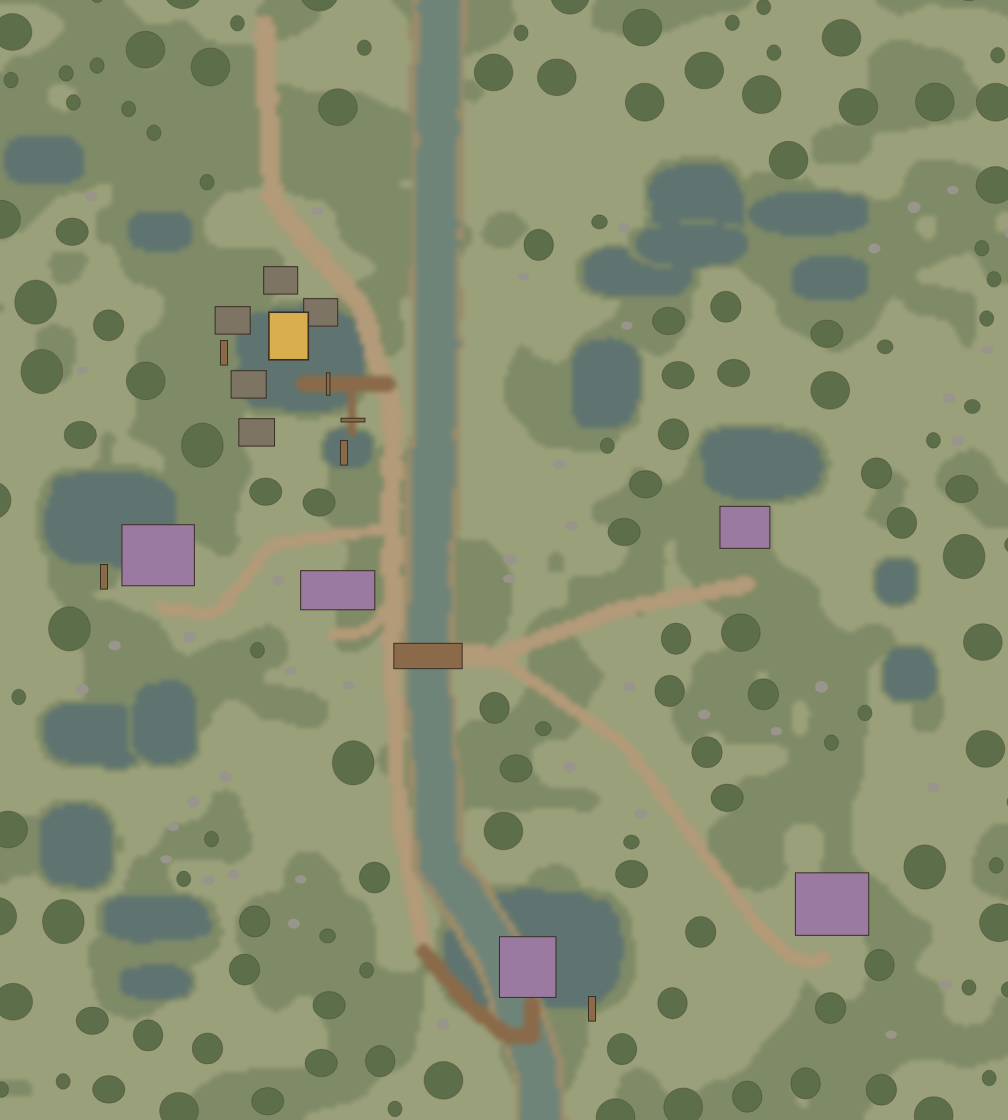
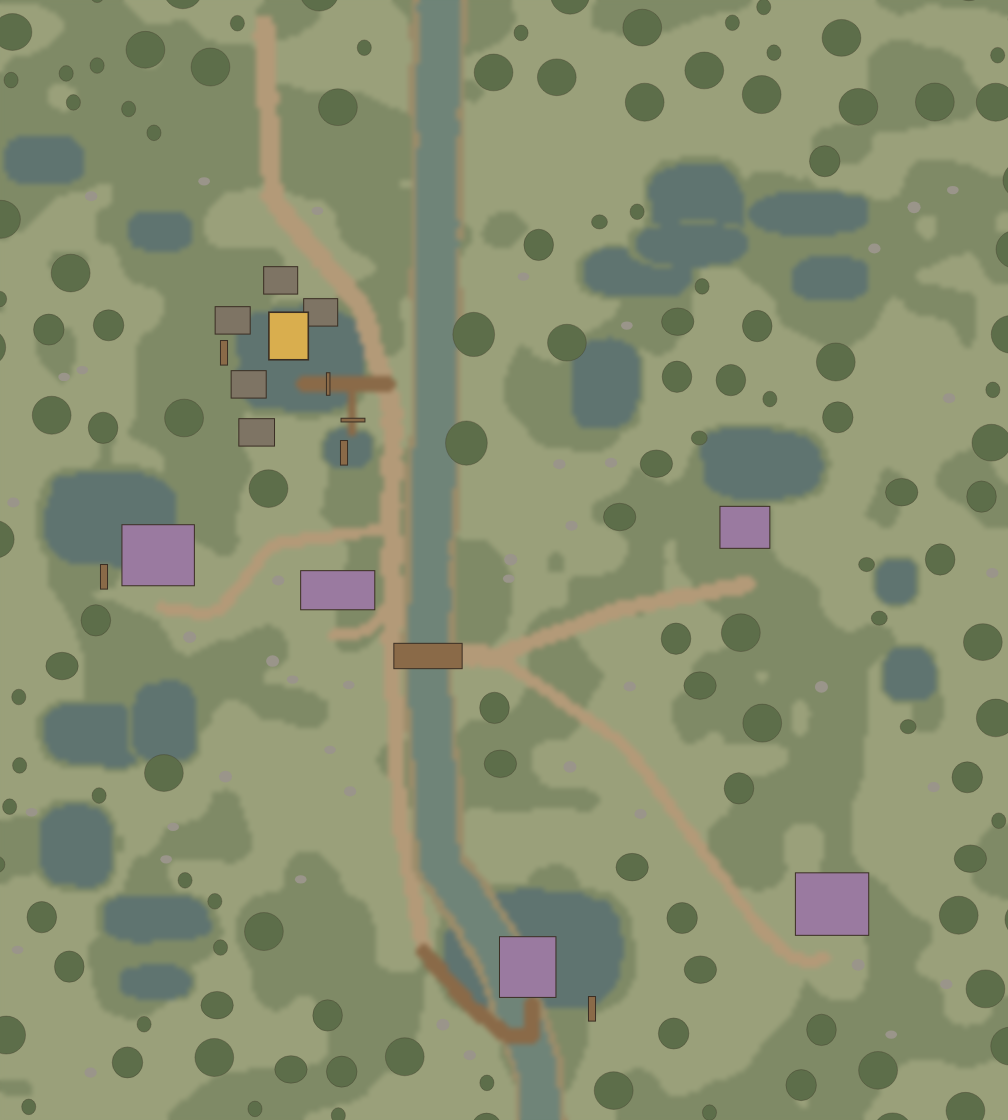
Foliage by ground: willows at the Fens' water, no pines on scree or snow
Level design rules §3.6 (biome foliage), measured on each land's seed:
- Fens: willows and dead trees only at a pool's or river's edge (a
  waterEdge pass on its own stream), never out on the marsh; tree cover
  within 8 tiles 21.6 % (4 willows, 14 dead), in the rule's 15-25 % band.
- Reach: scree takes rock_B where a pine would have stood (cover 9.5 %).
- Heights: a pine on snow or scree becomes rock_C, or dead_1 one in
  five; undergrowth only on grass (cover 15.8 %). Vale unchanged, 26.4 %.

New tests: test/biomes.test.mjs (what grows on which ground, per land)
and test/layout.test.mjs (bridge ends clear on all four lands; the
square open 10 tiles round the well, Saltmere exempt). The doc gains the
spawn-point rules (§3.6b) and marks §7's built items. Fens maps redrawn.

npm run check: 574 pass, SMOKE_OK, RENDER_SMOKE_OK.

Claude-Session: https://claude.ai/code/session_015iJE9saRx1hCYJHRMUYeGn

diff --git a/src/sim/outdoor.js b/src/sim/outdoor.js
@@ -224,6 +224,41 @@ const pick = (rng, a) => a[(rng() * a.length) | 0];
 
 // scatter trees / rocks in a region with a density mask; never on roads, water or buildings,
 // and never overlapping one another (trees keep a tile of verge from roads; mountains may crowd)
+// The Fens' water's edge (level-design-rules.md §3.6: "willows and the dead at the edges of the water"): round every mere
+// and along the canal's banks, a willow leaning over the water now and then, a dead tree standing in its shallows. A
+// crown may hang over the water (the scatter's trees can't: their whole footprint must be on land), never over a road,
+// a building or a way in. Its own stream: nothing else on the map moves for it.
+function waterEdge(o, keepOut) {
+  const rng = mulberry32(streamSeed(o.seed, 4434)), roadish = new Set([G.DIRT, G.COBBLE, G.DECK]);
+  const fitsOver = (id, x, y) => { const [x0, y0, x1, y1] = footRect(id, x, y);
+    for (let ty = Math.floor(y0); ty <= Math.floor(y1); ty++) for (let tx = Math.floor(x0); tx <= Math.floor(x1); tx++) {
+      const i = gi(o, tx, ty); if (i < 0 || o.occ[i] === 1) return false;
+      if (o.occ[i] === 2 && roadish.has(groundAt(o, tx + 0.5, ty + 0.5).g)) return false;
+    }
+    const t = groundAt(o, x, y).g; return t === G.GRASS || t === G.BANK; };   // (the trunk on the bank or the grass)
+  const plant = (x, y) => {
+    if (x < 4 || y < 4 || x > o.W - 4 || y > o.H - 4 || keepOut.some(([kx, ky]) => hypot(x - kx, y - ky) < 20)) return;
+    const id = rng() < 0.78 ? pick(rng, ['willow_1', 'willow_2']) : pick(rng, ['dead_1', 'dead_2']);
+    if (fitsOver(id, x, y)) put(o, id, x, y, 'round', 0.35);
+  };
+  for (const q of o.pools) for (let a = rng() * 0.6; a < Math.PI * 2; a += 0.42 + rng() * 0.3) {
+    if (rng() > 0.45) continue;
+    const k = 1 + (2.5 + rng() * 2) / Math.max(q.rx, q.ry); plant(q.cx + cos(a) * q.rx * k, q.cy + sin(a) * q.ry * k);
+  }
+  for (const r of o.rivers) for (let i = 1; i < r.pts.length; i++) {
+    const [ax, ay] = r.pts[i - 1], [bx, by] = r.pts[i], L = hypot(bx - ax, by - ay), nx = -(by - ay) / L, ny = (bx - ax) / L;
+    for (let t = rng() * 10; t < L; t += 10 + rng() * 8) for (const sd of [-1, 1]) if (rng() < 0.35) {
+      const d = r.w / 2 + 3 + rng() * 2; plant(ax + (bx - ax) * t / L + nx * sd * d, ay + (by - ay) * t / L + ny * sd * d);
+    }
+  }
+}
+/** is there open water (a pool, the canal, a river or its bank) within r tiles of (x, y)? (the Fens' edges: §3.6) */
+function waterNear(o, x, y, r) {
+  for (const [dx, dy] of [[0, 0], [r, 0], [-r, 0], [0, r], [0, -r], [r * 0.7, r * 0.7], [-r * 0.7, r * 0.7], [r * 0.7, -r * 0.7], [-r * 0.7, -r * 0.7]]) {
+    const g = groundAt(o, x + dx, y + dy).g; if (g === G.POOL || g === G.WATER || g === G.BANK) return true;
+  }
+  return false;
+}
 function scatter(o, rng, x0, y0, x1, y1, step, fn) {
   for (let y = y0; y < y1; y += step) for (let x = x0; x < x1; x += step) {
     const jx = x + (rng() - 0.5) * step * 0.9, jy = y + (rng() - 0.5) * step * 0.9, id = fn(jx, jy);
@@ -510,9 +545,14 @@ function buildFens(seed) {
     if (keepOut.some(([kx, ky]) => hypot(x - kx, y - ky) < 18) || inFrontOf(keepOut, x, y, 26, 14)) return null;
     const n = fbm(x * 0.03, y * 0.03, o.seed + 41), out = Math.max(-x, x - 240, -y, y - 240);
     if (out > 0) return rng() < 0.8 ? pick(rng, ['carr_1', 'carr_2', 'dead_1', 'willow_1']) : null;
-    return n > 0.58 ? pick(rng, ['alder_1', 'alder_2', 'alder_3', 'carr_1', 'willow_2']) : rng() < 0.05 ? pick(rng, ['dead_1', 'dead_2']) : null;
+    // (level-design-rules.md §3.6, the foliage pass: the willows and the dead at the water's edge and off the marsh; a
+    // thicket's alders and carr on the raised ground. The same draws as before, only the kind they come out as)
+    const g = groundAt(o, x, y).g, edge = g !== G.MARSH && waterNear(o, x, y, 8);   // (8: a willow's crown is 7 across, and stands back from the water it leans over)
+    const id = n > 0.61 ? pick(rng, edge ? ['willow_1', 'willow_2', 'alder_1', 'willow_2', 'dead_1'] : ['alder_1', 'alder_2', 'alder_3', 'carr_1', 'carr_2']) : rng() < (edge ? 0.12 : 0.05) ? pick(rng, ['dead_1', 'dead_2']) : null;
+    return id && /willow|dead/.test(id) && !edge ? null : id;
   });
   forestRing(o, rng, 6, FENS_CLUSTER, FENS_SINGLE);
+  waterEdge(o, keepOut);
   const ways = [mound, lockhall, pools, abbey, reedholm].map((p) => door(p, 8));
   undergrowth(o, -10, -10, 250, 250, 4, (x, y) => {
     if (keepOut.some(([kx, ky]) => hypot(x - kx, y - ky) < 12) || ways.some(([kx, ky]) => hypot(x - kx, y - ky) < 8)) return -1;
@@ -932,7 +972,8 @@ function buildReach(seed) {
     if (!clear(x, y, 14)) return null;
     if (x > 140 && x < 220 && y > 30 && y < 104 && rng() < 0.35) return pick(rng, HEAP);           // the works' heaps
     const n = fbm(x * 0.04, y * 0.04, o.seed + 61), hill = y < 70 && x < 140;
-    if (n > 0.6 || (hill && rng() < 0.2)) return rng() < 0.6 ? pick(rng, RED) : hill ? pick(rng, ['pine_2', 'pine_4', 'dead_2']) : pick(rng, ['dead_1', 'dead_2']);
+    if (n > 0.6 || (hill && rng() < 0.2)) { const id = rng() < 0.6 ? pick(rng, RED) : hill ? pick(rng, ['pine_2', 'pine_4', 'dead_2']) : pick(rng, ['dead_1', 'dead_2']);
+      return /pine/.test(id) && groundAt(o, x, y).g === G.SCREE ? 'rock_B' : id; }   // (§3.6: the pines on the hills' feet, none on scree: its red rock there)
     return rng() < 0.03 ? pick(rng, RED) : null;
   });
   forestRing(o, rng, 6, ['rock_E', 'rock_C', 'dead_1', 'rock_D'], ['dead_1', 'dead_2', 'rock_A', 'rock_B']);
@@ -1031,11 +1072,15 @@ function buildHeights(seed) {
     if (out > 0) return rng() < 0.7 ? pick(rng, PINES) : null;
     if (!clear(x, y, 14)) return null;
     const low = y > 140 && (x < 110 || x > 180), n = fbm(x * 0.035, y * 0.035, o.seed + 65);
-    if (low && n > 0.42) return rng() < 0.8 ? pick(rng, PINES) : 'dead_1';
-    return n > 0.62 ? (rng() < 0.5 ? pick(rng, PINES) : pick(rng, ['rock_A', 'rock_C', 'rock_D', 'rock_E'])) : rng() < 0.03 ? pick(rng, ['rock_C', 'rock_D', 'rock_B', 'dead_2']) : null;
+    const id = low && n > 0.42 ? (rng() < 0.8 ? pick(rng, PINES) : 'dead_1')
+      : n > 0.62 ? (rng() < 0.5 ? pick(rng, PINES) : pick(rng, ['rock_A', 'rock_C', 'rock_D', 'rock_E'])) : rng() < 0.03 ? pick(rng, ['rock_C', 'rock_D', 'rock_B', 'dead_2']) : null;
+    // (§3.6: living pines only below the snow line; on the snow and the scree, rock and the odd dead pine)
+    if (id && /pine/.test(id)) { const g = groundAt(o, x, y).g; if (g === G.SNOW || g === G.SCREE) return (Math.floor(x) + Math.floor(y)) % 5 ? 'rock_C' : 'dead_1'; }
+    return id;
   });
   forestRing(o, rng, 6, PINES, [...PINES, 'dead_1']);
-  undergrowth(o, -10, -10, 270, 270, 5, (x, y) => (keepOut.some(([kx, ky]) => hypot(x - kx, y - ky) < 12) ? -1 : fbm(x * 0.07, y * 0.07, o.seed + 67) > 0.64 ? 0.35 : 0.04),
+  undergrowth(o, -10, -10, 270, 270, 5, (x, y) => { const g = groundAt(o, x, y).g;
+    return keepOut.some(([kx, ky]) => hypot(x - kx, y - ky) < 12) || g === G.SNOW || g === G.SCREE || g === G.MARSH ? -1 : fbm(x * 0.07, y * 0.07, o.seed + 67) > 0.64 ? 0.35 : 0.04; },   // (§3.6: nothing green on snow, scree or marsh)
     { low: ['ug_grass_1', 'ug_grass_2', 'ug_fern'], solid: ['rock_A', 'rock_B'], foot: ['ug_grass_2', 'ug_fern'] });
 
   o.exits.push({ x0: gate[0] - 8, y0: gate[1] - 4, x1: gate[0] - 1, y1: gate[1] + 4, to: 'town', arrive: 'overland' });

diff --git a/docs/level-design-rules.md b/docs/level-design-rules.md
@@ -62,7 +62,7 @@ everywhere, so the menu never moves.
 | **Services stand 8+ tiles apart**, every door inside the square's frame (\|Δ(x−y)\| < 22, Δ(x+y) −93…50 of the focus) | *test* town.test.mjs |
 | **The plaques hang at set heights** (temple 23.5, tavern 15.1, shop 13.4, smith 11.1, inn 18.7 tiles), not at the roofs, within ±17 of the centre; the drawn plaques match within 1 px and clear the buttons | *test* town.test.mjs, browser §15d2 |
 | **The walls are closed, the gate the only way out.** The curtain leaves ±7 tiles at the gate, the gate itself ±3 walkable; walls in 20-tile runs | *test* town.test.mjs |
-| **The square stays open 10 tiles round the well** (no house, prop or tree) | *prose* (to test, §7) |
+| **The square stays open 10 tiles round the well**: no house or tree (its table, its bucket and its people may stand there; a waystation's deck square, with no well, is exempt) | *test*: layout.test.mjs |
 | **Tall at the back, low at the front.** Houses fill the north and west quarters; nothing taller than one storey stands between the square and the camera; a home never stands south of what it opens onto | *prose*; the visibility check catches the result (§1.1) |
 | **Every door can be walked to** from where you wake (a flood fill); the town set stays off the roads (no footprint within a road's half-width) and 2+ tiles off the straight walk from each arrival to each door | *test* town.test.mjs (seed 1: more seeds, §7) |
 | **Doorstep props** (a bench, a barrel, a cart) go only on the +x/+y faces and never inside the hub; the back quarters' trees stand up-screen of the square | *code* outdoor.js |
@@ -92,9 +92,11 @@ everywhere, so the menu never moves.
   - the bridge's ramps (±9.2 tiles) on land;
   - no road in the river except at a bridge;
   - the mill's wheel within a tile of the water.
-- **Must, new: a bridge's ends stay clear.** Nothing solid within 4 tiles of either ramp's foot; no undergrowth on the
-  deck or within 2 tiles of it. *prose*, to test (§7).
-- **Should, new: the banks are planted for the biome** (§3.6). Reeds and willows at the Fens' water's edge; in the
+- **Must, new: a bridge's ends stay clear.** Past either end of its deck, 3 tiles across and 2 deep stay walkable
+  (*test*: layout.test.mjs, every bridge on all four lands). (Written first as "nothing solid within 4 tiles of the
+  ramp's foot": the test holds what a walk needs, the code's.)
+- **Should, new: the banks are planted for the biome** (§3.6). Reeds and willows at the Fens' water's edge (*test*:
+  biomes.test.mjs); in the
   Vale, the undergrowth thickens along the banks (it does: 0.55 density within 2.5 tiles of water). Trees stand 2+
   tiles back from open water except the biome's water trees.
 
@@ -162,10 +164,13 @@ on. What the code does today is set against each profile below; the "to change" 
   - Reeds in ribbons along every water edge.
   - The map's edge is a ring of carr.
   - Open water and marsh stay open: the Fens read as wide and wet, not wooded.
-- **Densities:** trees cover 10–20 % (less than the Vale); reeds on most of the water's edge.
+- **Densities:** cover (the share of the map within 8 tiles of a tree, as the Vale's) 15–25 %, less than the Vale's
+  (*test*: biomes.test.mjs); reeds on most of the water's edge.
 - **Never:** birch, autumn trees, mixed groves (the fens critic pass 2: they read round and cheerful here).
-- **Today:** species right. Trees stand on marsh ground as well as grass (167 on marsh). **To change:** keep the trees
-  but the willows and the dead off marsh, and run the reeds along the water's edges, which aren't placed by edge today.
+- **Today** (the foliage pass, 2026-11-11): alders and carr on the raised ground and the marsh; willows and the dead only
+  at the water's edge, never on the marsh (`outdoor.js` `waterEdge`: round every mere and along the canal, a crown may
+  lean over the water, never a road); cover 21.6 % (the Vale 26.4 %). The reeds along the edges are Luminati's own: it
+  grows them on every land tile beside water (*test*: biomes.test.mjs).
 
 **The Cinder Reach: cinder badlands.**
 - **Species:** red rock outcrops and their rubble, slag heaps round the works, dead trees, a few pines on the hills'
@@ -178,8 +183,8 @@ on. What the code does today is set against each profile below; the "to change" 
   - Most of the ground is bare.
 - **Densities:** trees under 3 % cover, rocks 5–10 %, dry grass in a few patches.
 - **Never:** flowers, ferns, clover, mushrooms, leafy trees.
-- **Today:** as above (dry grass and stones). Trees stand on scree (74 pieces). **To change:** pines only on the hills'
-  feet, none on scree.
+- **Today** (2026-11-11): no pine on scree (its red rock stands there instead); dead trees and rock; cover 9.5 %
+  (*test*: biomes.test.mjs: no pine on scree, no leafy growth, cover 12 % at most).
 
 **The Pale Heights: alpine.**
 - **Species:** pines in stands, dead pines at the treeline, scree fans, boulders. Ground: grasses and fern below the
@@ -191,8 +196,8 @@ on. What the code does today is set against each profile below; the "to change" 
   - The map's edge is pines.
 - **Densities:** pines 15–25 % cover below the treeline, none above; no undergrowth on snow or scree.
 - **Never:** green undergrowth on snow; marsh plants; leafy trees.
-- **Today:** pines stand on snow (177) and undergrowth grows on snow (29), on scree and on marsh (3). **To change:**
-  no undergrowth on snow, scree or marsh; living pines only below the snow line; dead pines and rock above it.
+- **Today** (2026-11-11): living pines only below the snow line; on snow and scree, rock and one dead pine in five; no
+  undergrowth on snow, scree or marsh (*test*: biomes.test.mjs).
 
 **Lands to come** (Solmere, the Tidemark, the Greenwood): a profile each, written here before the map is built. The
 Greenwood is deep forest, its open ground the exception: glades and paths cut through closed canopy, so §1.1 matters
@@ -207,6 +212,23 @@ most there. The Tidemark is a coast: dune grass, wind-bent pines and rock, no tr
 5. The undergrowth is placed last, on its own random stream, so nothing it adds moves a tree, a rock or a house
    (*test*).
 6. The edge of the map is a ring the player can't walk through, in the biome's own trees or rock (`forestRing`).
+
+### 3.6b Spawn points (new, GDD §10.3 v1.68)
+
+A land's fights away from its dungeons (`src/sim/camps.js`). The owner: *"each region or overworld map should also have
+3 or 4 NPC spawn locations … with appropriate site dressing and appropriate NPC difficulty just like the 3 or so dungeons
+per map … wider aggro/chase radius (show as a dotted line when encountered)"*.
+
+| Rule | Why | Enforced |
+|---|---|---|
+| Three or four a land, at least one at each of its dungeons' bands | a fight on the land for every stage of it | *test*: camps.test.mjs |
+| The first band's may stand by a road; a higher band's stands more than its reach from every road | a walk to a lower band's dungeon never meets a fight it can't win (the first try put a level-5 picket by the keep road, and a level-1 walk to the Keep died to it) | *test* |
+| None reaches a way in or out, or where anyone arrives | you never come out of a door into a fight | *test* |
+| Open ground under it: its middle, its posts and its hole walkable, its dressing on its own tiles, no other's arena overlapping | the band stands and fights where it's drawn | *test* |
+| Away from the map's edge by 25 tiles or more | the border's forest stands between the camera (south-east) and anything at the edge | *prose* (the old picket was moved for it) |
+| Dressed as what it is (a camp's fire, tent and banner; a nest's burrow; the stones' pillars; the graves' saint and urns) | read from afar before it sees you | *prose* |
+| Its band idles at its posts or its hole while it's full | seen before it sees you (a nest too, v1.67) | *test* |
+| Its reach shows as a dashed amber ring on the ground as you come up on it, its arena a red one in its fight | where it'll see you, and where you can run past (renderer.js `drawCampRings`) | *code* |
 
 ### 3.7 Rocks, fields and beasts
 
@@ -412,19 +434,13 @@ floors hold 4 % fewer pieces and 9 % fewer lights (901 → 819: the ones that st
 ## 7. Not yet enforced, and the next work
 
 **To test:**
-- The square open 10 tiles round the well.
 - The near walls' low pieces only.
 - The lanes from each doorway.
-- A bridge's ends clear.
 - The town checks on more seeds.
 - The doorway light by kit, in every room.
 - A shrine against a far wall.
 
-**To build:** the foliage pass to the biome profiles (§3.6):
-- Undergrowth by ground.
-- The Fens' reeds along the water's edges.
-- The Heights' snow line and the Reach's pines kept off scree.
-- A cover test per biome.
+**Built** (2026-11-11): the foliage pass to the biome profiles (§3.6), and its test per biome (`test/biomes.test.mjs`).
 
 **To write:** a profile for each land to come, before it's built.
 
